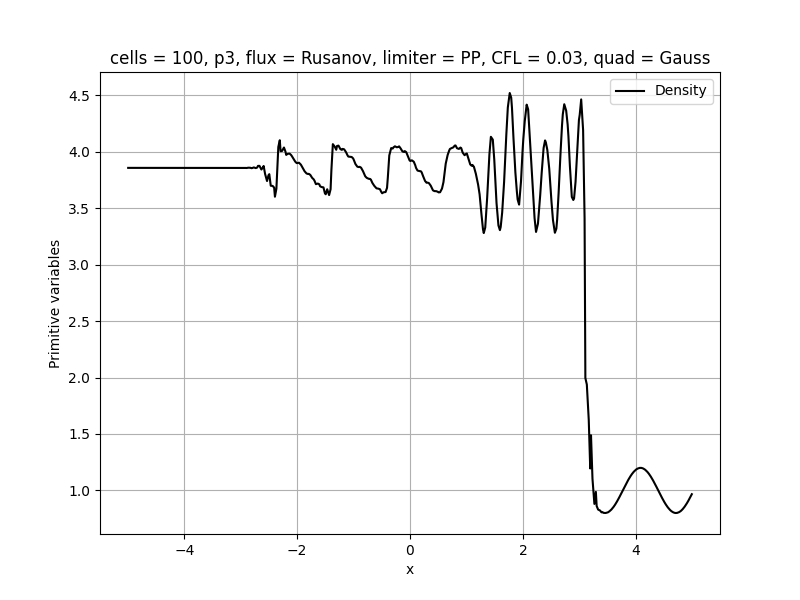
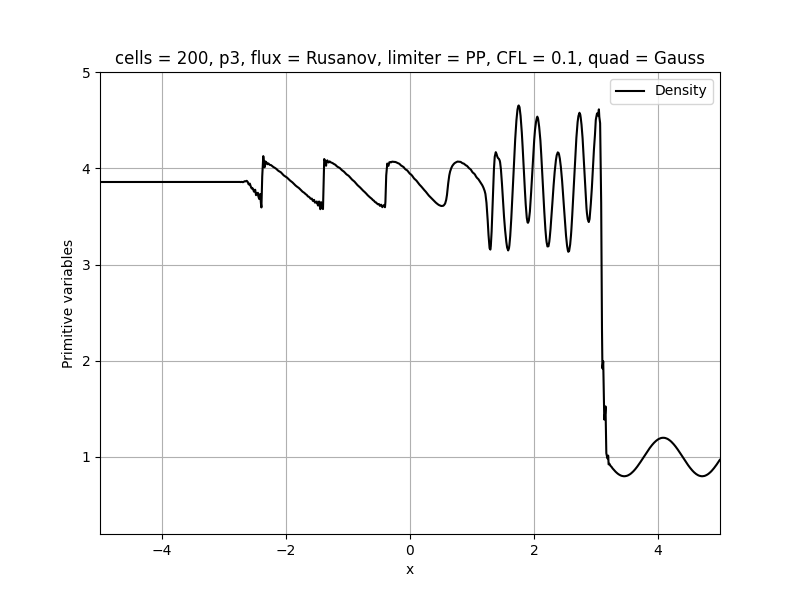
Added shu osher

diff --git a/euler_dev.py b/euler_dev.py
@@ -196,7 +196,7 @@ def compute_cell_average(u,primitive_variable,xq_weights,trans_matrix,dx):
     return cons_v_cell_average, prim_v_cell_average
 
 if __name__ == "__main__":
-    jmax = 101
+    jmax = 201
     time_step = 0
     num_element = jmax-1
     approx_order = 3
@@ -206,7 +206,7 @@ if __name__ == "__main__":
     quad_type = 'Gauss' # 'Gauss' or 'Lobatto'
     flux_type = 'Rusanov' # 'Rusanov' or 'HLLC'
     limiter_type = 'PP' # 'PP' or 'minmod'
-    initial = 'sod' # 'sod' or 'contact'
+    initial = 'shu-osher' # 'sod' or 'contact'
     # number of nodes in each element: At quad points
     Np = approx_order+1
     u = np.zeros((num_element,Np,3))
@@ -285,8 +285,13 @@ if __name__ == "__main__":
     # plotter.plot_cell_average(cons_v_cell_average,prim_v_cell_average,x_cell_average)
     flag_PP = False
 
+    if(initial == 'sod'):
+        end_time = 0.12
+    elif(initial == 'shu-osher'):
+        end_time = 2.0
+
     if(True):
-        while (time < 0.12):
+        while (time < end_time):
 
             un = u.copy()
             if(not flag_PP):
@@ -435,19 +440,19 @@ if __name__ == "__main__":
         
 
         plt.figure(figsize=(8, 6))
-        # plt.plot(x_coord, u_coord, linestyle='-', color='k', label='Density')
+        plt.plot(x_coord, u_coord, linestyle='-', color='k', label='Density')
         # plt.plot(x_coord, p_coord, linestyle='-', color='r', label='Pressure')
         # plt.plot(x_coord, velo_coord, linestyle='-', color='g', label='Velocity')
         # plt.plot(x_cell_average,limiter_val1,linestyle='-', color='b', label='Limiter 1')
         # plt.plot(x_cell_average,limiter_val2,linestyle='-', color='r', label='Limiter 2')
         
-        plt.plot(x_cell_average, prim_v_cell_average[:,0],linestyle='-', color='b', label='Cell average density')
-        plt.plot(x_cell_average, prim_v_cell_average[:,1],linestyle='-', color='g', label='Cell average velocity')
-        plt.plot(x_cell_average, prim_v_cell_average[:,2],linestyle='-', color='r', label='Cell average pressure')
+        # plt.plot(x_cell_average, prim_v_cell_average[:,0],linestyle='-', color='b', label='Cell average density')
+        # plt.plot(x_cell_average, prim_v_cell_average[:,1],linestyle='-', color='g', label='Cell average velocity')
+        # plt.plot(x_cell_average, prim_v_cell_average[:,2],linestyle='-', color='r', label='Cell average pressure')
         # plt.plot(x_coord, u_ini_coord, marker='o', linestyle='-', color='r', label='initial')
         if (initial == 'shu-osher'):
             plt.xlim(x_min,x_max)
-            plt.ylim(0,5.0)
+            plt.ylim(0.2,5.0)
         else:
             plt.xlim(x_min,x_max)
             # plt.ylim(0,1.1)

diff --git a/flx.py b/flx.py
@@ -99,20 +99,20 @@ def Rusanov(u_flux,p_flux,p_from_u, jmax,time_step):
         fR = np.array(fR)
         flux[i,:] = 0.5*(fL[:]+fR[:] - 0.5*max((np.abs(u_flux[i-1,1,1]/u_flux[i-1,1,0])+aL),(np.abs(u_flux[i,0,1]/u_flux[i,0,0])+aR))*(u_flux[i,0,:]-u_flux[i-1,1,:]))
     
-    flux[0,:] = [u_flux[0,0,1],(u_flux[0,0,1]**2/u_flux[0,0,0]+p_from_u[0,0,2]),(u_flux[0,0,2]+p_from_u[0,0,2])*p_from_u[0,0,1]]
-    flux[nf-1,:] = [u_flux[nf-2,1,1],(u_flux[nf-2,1,1]**2/u_flux[nf-2,1,0]+p_from_u[nf-2,1,2]),(u_flux[nf-2,1,2]+p_from_u[nf-2,1,2])*p_from_u[nf-2,1,1]]
+    # flux[0,:] = [u_flux[0,0,1],(u_flux[0,0,1]**2/u_flux[0,0,0]+p_from_u[0,0,2]),(u_flux[0,0,2]+p_from_u[0,0,2])*p_from_u[0,0,1]]
+    # flux[nf-1,:] = [u_flux[nf-2,1,1],(u_flux[nf-2,1,1]**2/u_flux[nf-2,1,0]+p_from_u[nf-2,1,2]),(u_flux[nf-2,1,2]+p_from_u[nf-2,1,2])*p_from_u[nf-2,1,1]]
     #only shu-osher
-    # rho1, u1, p1 = 3.857143, 2.629369, 10.3333
-    # rhou1 = rho1*u1
-    # e1 = p1/(gamma-1.0)+0.5*rho1*u1**2
+    rho1, u1, p1 = 3.857143, 2.629369, 10.3333
+    rhou1 = rho1*u1
+    e1 = p1/(gamma-1.0)+0.5*rho1*u1**2
 
-    # rho2 = u_flux[nf-2,1,0]
-    # u2 = 0.0
-    # p2 = p_from_u[nf-2,1,2]
-    # e2 = p2/(gamma-1.0)+0.5*rho2*u2**2
-    # rhou2 = rho2*u2
-    # flux[0,:] = [rhou1, rhou1**2/rho1+p1, (e1+p1)*u1]
-    # flux[nf-1,:] = [rhou2, rhou2**2/rho2+p2, (e2+p2)*u2]
+    rho2 = u_flux[nf-2,1,0]
+    u2 = 0.0
+    p2 = p_from_u[nf-2,1,2]
+    e2 = p2/(gamma-1.0)+0.5*rho2*u2**2
+    rhou2 = rho2*u2
+    flux[0,:] = [rhou1, rhou1**2/rho1+p1, (e1+p1)*u1]
+    flux[nf-1,:] = [rhou2, rhou2**2/rho2+p2, (e2+p2)*u2]
     '''Periodic boundary condition'''
     # aL = sound[nf-2,1]
     # aR = sound[0,0]
